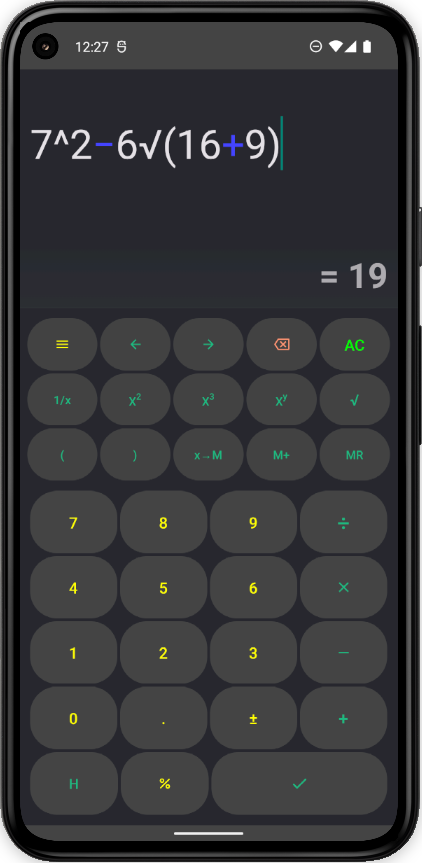
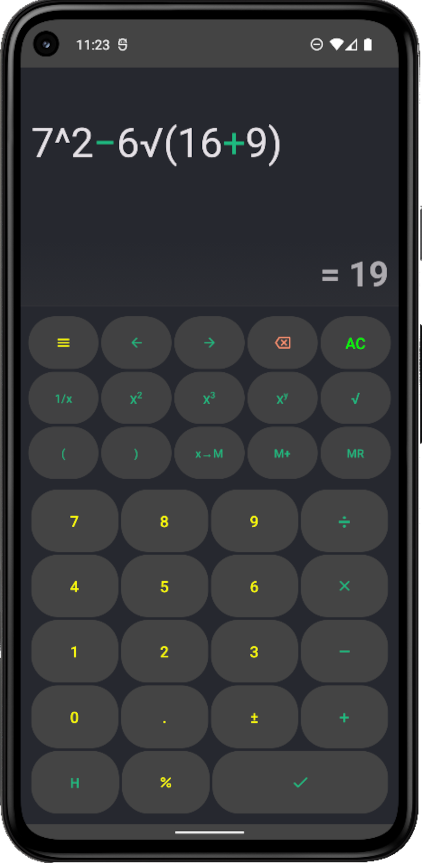
Updated dark screenshot

diff --git a/compact-calculator.html b/compact-calculator.html
@@ -25,7 +25,7 @@
     content="Compact Cal - The Best Calculator app for Android" />
   <meta property="og:description"
     content="Compact Calculator will help you perform math calculations using arithmetic operators and extra functions such as square, root, powers, inversion, etc" />
-  <meta property="og:url" content="https://skelenews.com/" />
+  <meta property="og:url" content="https://skelenews.com" />
   <meta property="og:site_name" content="SkeleNews" />
   <meta property="og:locale" content="en" />
   <meta property="og:image:type" content="image/png" />
@@ -70,15 +70,15 @@
 
     <div class="grid grid-cols-2 md:grid-cols-3 gap-4 mx-auto max-w-3xl p-4">
       <div>
-        <img class="h-auto max-w-full rounded-lg" src="img/compactcal_scr2.png" alt="App Screenshot">
+        <img class="h-auto max-w-full rounded-lg" src="img/compactcal_scr2.png" alt="App screenshot">
       </div>
 
       <div>
-        <img class="h-auto max-w-full rounded-lg" src="img/compactcal_scr1.png" alt="App Screenshot">
+        <img class="h-auto max-w-full rounded-lg" src="img/compactcal_scr1.png" alt="App screenshot">
       </div>
 
       <div>
-        <img class="h-auto max-w-full rounded-lg" src="img/compactcal_scr3.png" alt="App Screenshot">
+        <img class="h-auto max-w-full rounded-lg" src="img/compactcal_scr3.png" alt="App screenshot">
       </div>
     </div>
 
@@ -88,74 +88,74 @@
 
         <ul class="px-4">
           <li class="flex items-center my-4">
-            <img class="h-6 w-6 rounded-lg" src="img/checkmark.svg" alt="App Screenshot"/>
+            <img class="h-6 w-6 rounded-lg" src="img/checkmark.svg" alt="Illustration"/>
             <p class="ml-3">A clean, minimalist design that keeps the focus on what matters: your calculations</p>
           </li>
 
           <li class="flex items-center my-4">
-            <img class="h-6 w-6 rounded-lg" src="img/checkmark.svg" alt="App Screenshot"/>
+            <img class="h-6 w-6 rounded-lg" src="img/checkmark.svg" alt="Illustration"/>
             <p class="ml-3">A user-friendly interface that's easy to navigate, even for those who aren't math whizzes</p>
           </li>
 
           <li class="flex items-center my-4">
-            <img class="h-6 w-6 rounded-lg" src="img/checkmark.svg" alt="App Screenshot"/>
+            <img class="h-6 w-6 rounded-lg" src="img/checkmark.svg" alt="Illustration"/>
             <p class="ml-3">All the essential functions you need to handle everyday calculations, from basic arithmetic to
               percentages, decimals, scientific notation</p>
           </li>
 
           <li class="flex items-center my-4">
-            <img class="h-6 w-6 rounded-lg" src="img/checkmark.svg" alt="App Screenshot"/>
+            <img class="h-6 w-6 rounded-lg" src="img/checkmark.svg" alt="Illustration"/>
             <p class="ml-3">Results of calculations with scientific notation where necessary</p>
           </li>
 
           <li class="flex items-center my-4">
-            <img class="h-6 w-6 rounded-lg" src="img/checkmark.svg" alt="App Screenshot"/>
+            <img class="h-6 w-6 rounded-lg" src="img/checkmark.svg" alt="Illustration"/>
             <p class="ml-3">Instant results as you type</p>
           </li>
 
           <li class="flex items-center my-4">
-            <img class="h-6 w-6 rounded-lg" src="img/checkmark.svg" alt="App Screenshot"/>
+            <img class="h-6 w-6 rounded-lg" src="img/checkmark.svg" alt="Illustration"/>
             <p class="ml-3">An app memory to help you remember and restore a quick number</p>
           </li>
 
           <li class="flex items-center my-4">
-            <img class="h-6 w-6 rounded-lg" src="img/checkmark.svg" alt="App Screenshot"/>
+            <img class="h-6 w-6 rounded-lg" src="img/checkmark.svg" alt="Illustration"/>
             <p class="ml-3">A clean error message for wrong inputs like <span class="italic font-medium">Division by zero</span> 
               or <span class="italic font-medium">Number Too Big</span></p>
           </li>
 
           <li class="flex items-center my-4">
-            <img class="h-6 w-6 rounded-lg" src="img/checkmark.svg" alt="App Screenshot"/>
+            <img class="h-6 w-6 rounded-lg" src="img/checkmark.svg" alt="Illustration"/>
             <p class="ml-3">Easily update your expression with a freely movable blinking cursor</p>
           </li>
 
           <li class="flex items-center my-4">
-            <img class="h-6 w-6 rounded-lg" src="img/checkmark.svg" alt="App Screenshot"/>
+            <img class="h-6 w-6 rounded-lg" src="img/checkmark.svg" alt="Illustration"/>
             <p class="ml-3">History of calculations helps you find and reuse your past calculations</p>
           </li>
 
           <li class="flex items-center my-4">
-            <img class="h-6 w-6 rounded-lg" src="img/checkmark.svg" alt="App Screenshot"/>
+            <img class="h-6 w-6 rounded-lg" src="img/checkmark.svg" alt="Illustration"/>
             <p class="ml-3">Different custom themes including Dark Theme</p>
           </li>
 
           <li class="flex items-center my-4">
-            <img class="h-6 w-6 rounded-lg" src="img/checkmark.svg" alt="App Screenshot"/>
+            <img class="h-6 w-6 rounded-lg" src="img/checkmark.svg" alt="Illustration"/>
             <p class="ml-3">A lightweight footprint that won't weigh down your phone's storage or performance</p>
           </li>
 
           <li class="flex items-center my-4">
-            <img class="h-6 w-6 rounded-lg" src="img/checkmark.svg" alt="App Screenshot"/>
+            <img class="h-6 w-6 rounded-lg" src="img/checkmark.svg" alt="Illustration"/>
             <p class="ml-3">No need for internet connection, the app works offline</p>
           </li>
 
           <li class="flex items-center my-4">
-            <img class="h-6 w-6 rounded-lg" src="img/checkmark.svg" alt="App Screenshot"/>
+            <img class="h-6 w-6 rounded-lg" src="img/checkmark.svg" alt="Illustration"/>
             <p class="ml-3">Designed with accessibility in mind for users of accessibility services, such as screen readers</p>
           </li>
 
           <li class="flex items-center my-4">
-            <img class="h-6 w-6 rounded-lg" src="img/checkmark.svg" alt="App Screenshot"/>
+            <img class="h-6 w-6 rounded-lg" src="img/checkmark.svg" alt="Illustration"/>
             <p class="ml-3 font-medium italic">Free!!</p>
           </li>
         </ul>
@@ -170,8 +170,8 @@
     <footer class="bg-white m-4">
       <div class="w-full max-w-screen-xl mx-auto p-4 md:py-8">
         <div class="sm:flex sm:items-center sm:justify-between">
-          <a href="https://skelenews.com/" class="flex items-center mb-4 sm:mb-0 space-x-3 rtl:space-x-reverse">
-            <img src="img/logo-456×283.svg" class="h-8" alt="SkeleNews" />
+          <a href="https://skelenews.com" class="flex items-center mb-4 sm:mb-0 space-x-3 rtl:space-x-reverse">
+            <img src="img/logo-456×283.svg" class="h-8" alt="SkeleNews logo" />
             <span class="self-center text-xl whitespace-nowrap text-gray-800 dark:text-white">SkeleNews</span>
           </a>
           <ul class="flex flex-wrap items-center mb-6 text-sm font-medium text-gray-500 sm:mb-0 dark:text-gray-400">
@@ -182,7 +182,7 @@
         </div>
         <hr class="my-6 border-gray-200 sm:mx-auto dark:border-gray-700 lg:my-8" />
         <span class="block text-sm text-gray-500 sm:text-center dark:text-gray-400">© 2024 
-          <a href="https://skelenews.com/" class="hover:underline">SkeleNews</a>. All Rights Reserved.</span>
+          <a href="https://skelenews.com" class="hover:underline">SkeleNews</a>. All Rights Reserved.</span>
       </div>
     </footer>
 

diff --git a/index.html b/index.html
@@ -25,7 +25,7 @@
     content="Connect to the world of Media, Gaming and Entertainment, see what&#x27;s nearby | SkeleNews" />
   <meta property="og:description"
     content="Stay on top with games, breaking news, analysis, and commentary on the latest events from around the world | SkeleNews" />
-  <meta property="og:url" content="https://skelenews.com/" />
+  <meta property="og:url" content="https://skelenews.com" />
   <meta property="og:site_name" content="SkeleNews" />
   <meta property="og:locale" content="en" />
   <meta property="og:image:type" content="image/png" />
@@ -92,7 +92,7 @@
   <footer class="bg-white m-4">
     <div class="w-full max-w-screen-xl mx-auto p-4 md:py-8">
       <div class="sm:flex sm:items-center sm:justify-between">
-        <a href="https://skelenews.com/" class="flex items-center mb-4 sm:mb-0 space-x-3 rtl:space-x-reverse">
+        <a href="https://skelenews.com" class="flex items-center mb-4 sm:mb-0 space-x-3 rtl:space-x-reverse">
           <img src="img/logo-456×283.svg" class="h-8" alt="SkeleNews" />
           <span class="self-center text-xl whitespace-nowrap text-gray-800 dark:text-white">SkeleNews</span>
         </a>
@@ -104,7 +104,7 @@
       </div>
       <hr class="my-6 border-gray-200 sm:mx-auto dark:border-gray-700 lg:my-8" />
       <span class="block text-sm text-gray-500 sm:text-center dark:text-gray-400">© 2024 
-        <a href="https://skelenews.com/" class="hover:underline">SkeleNews</a>. All Rights Reserved.</span>
+        <a href="https://skelenews.com" class="hover:underline">SkeleNews</a>. All Rights Reserved.</span>
     </div>
   </footer>
 </body>

diff --git a/404.html b/404.html
@@ -19,7 +19,7 @@
   <meta name="publisher" content="Jerome Dh" />
   <meta name="robots" content="index, follow, nocache" />
   <meta name="googlebot" content="index, follow, max-video-preview:-1, max-image-preview:large, max-snippet:-1" />
-  <link rel="canonical" href="https://skelenews.com/" />
+  <link rel="canonical" href="https://skelenews.com" />
   <meta name="format-detection" content="telephone=no, address=no, email=no" />
   <meta property="og:title"
     content="Connect to the world of Media, Gaming and Entertainment, see what&#x27;s nearby | SkeleNews" />
@@ -71,7 +71,7 @@
   <footer class="bg-white m-4">
     <div class="w-full max-w-screen-xl mx-auto p-4 md:py-8">
       <div class="sm:flex sm:items-center sm:justify-between">
-        <a href="https://skelenews.com/" class="flex items-center mb-4 sm:mb-0 space-x-3 rtl:space-x-reverse">
+        <a href="https://skelenews.com" class="flex items-center mb-4 sm:mb-0 space-x-3 rtl:space-x-reverse">
           <img src="img/logo-456×283.svg" class="h-8" alt="SkeleNews" />
           <span class="self-center text-xl whitespace-nowrap text-gray-800 dark:text-white">SkeleNews</span>
         </a>
@@ -83,7 +83,7 @@
       </div>
       <hr class="my-6 border-gray-200 sm:mx-auto dark:border-gray-700 lg:my-8" />
       <span class="block text-sm text-gray-500 sm:text-center dark:text-gray-400">© 2024 
-        <a href="https://skelenews.com/" class="hover:underline">SkeleNews</a>. All Rights Reserved.</span>
+        <a href="https://skelenews.com" class="hover:underline">SkeleNews</a>. All Rights Reserved.</span>
     </div>
   </footer>
 </body>
